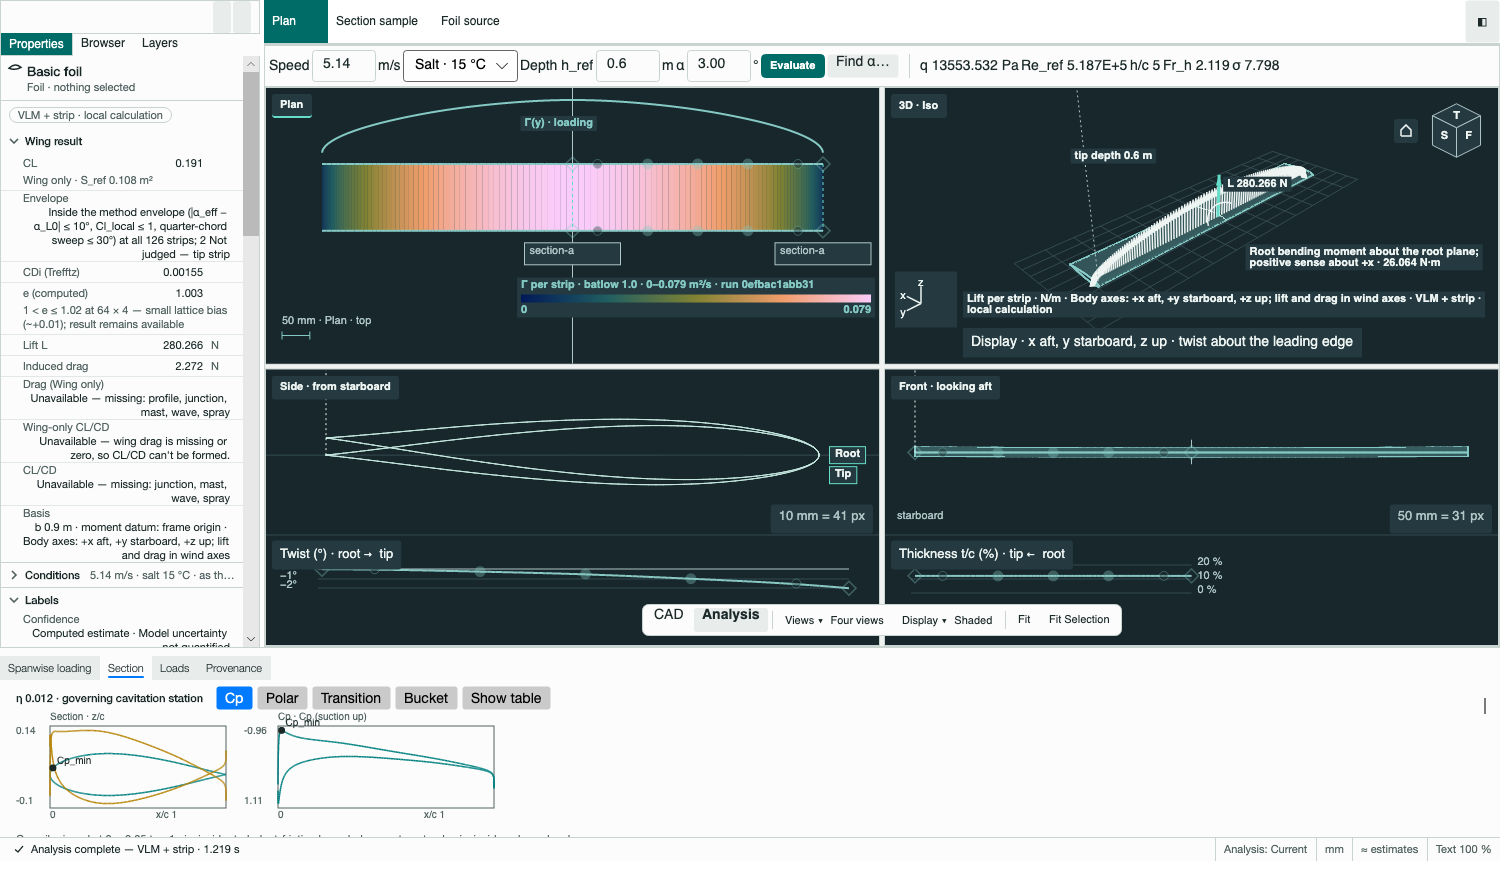
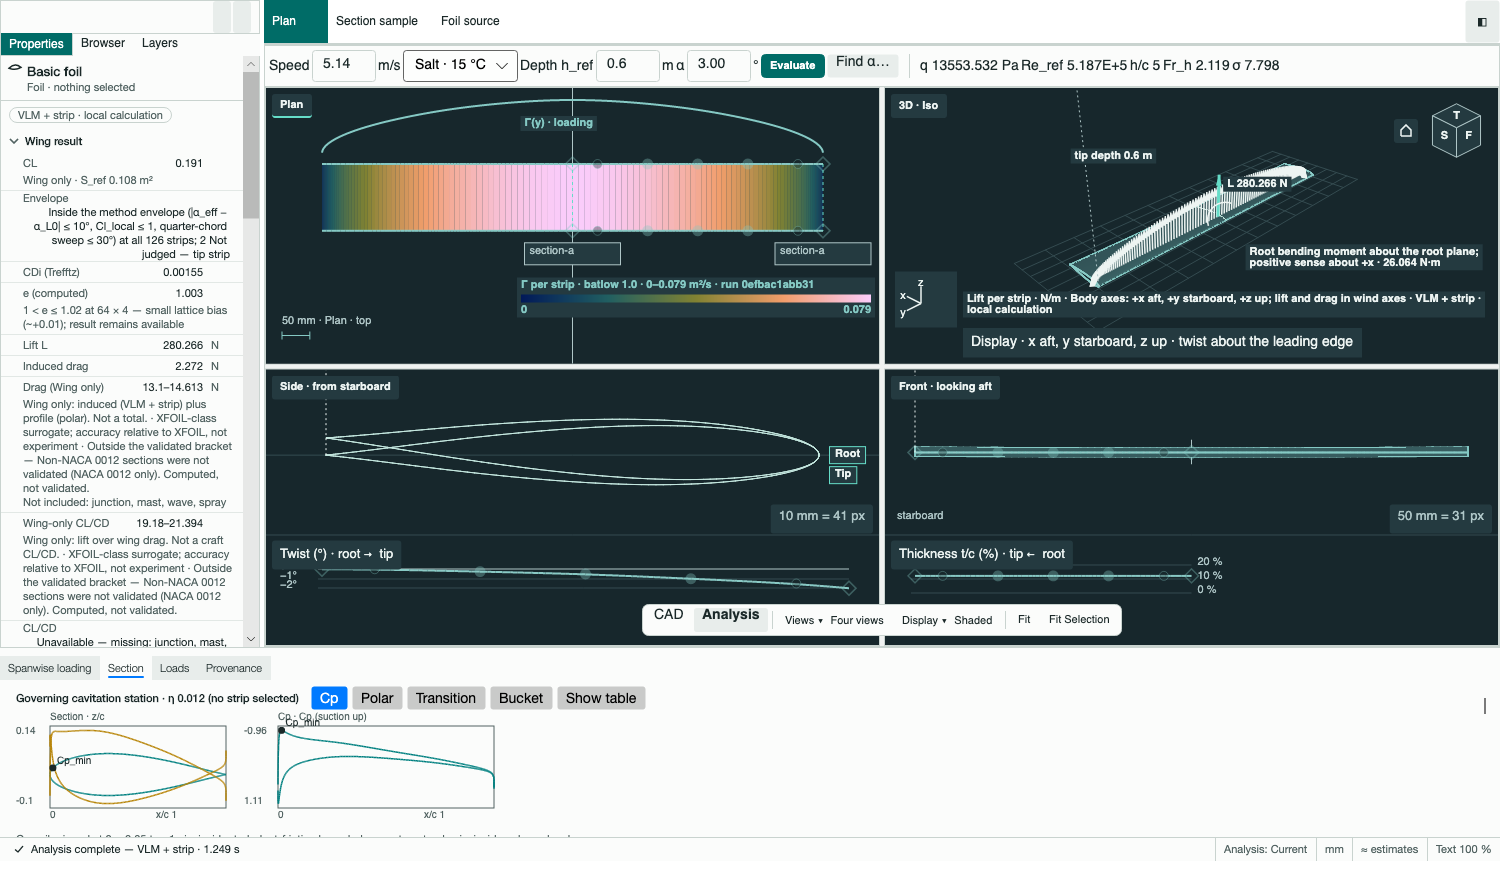
docs(dx): captures after Ruling 117, mockup renders, numerical-change note

Changed region(s): [[0.0, 0.4345, 0.1533, 0.7448], [0.0, 0.7759, 0.4293, 0.8379], [0.1533, 0.2483, 0.184, 0.2793]]

diff --git a/docs/proof/dx/red-first.md b/docs/proof/dx/red-first.md
@@ -91,3 +91,23 @@ Red: `Section_CpUnavailable_PanelSolveFailed_ShowsCopy358InApp` (Desktop readine
 | `Polar_NonNaca0012InsideTrainingRange_ComputedAndFlagged_Ruling117` | `AvailabilityCode` returns the family code again (refuse again) | `a strip cd is computed, not refused expected True; actual False` |
 
 Tool: scratchpad `dx2/mutate.py` (applies one exact replacement, builds, runs one check, restores the file). `git status` was clean after every run.
+
+### Item 6: captures (app render, after all changes, example foil, V 5.14 m/s, alpha 3, h 0.6 m)
+
+Folder `docs/proof/dx/captures/`. App renders are `01`..`11`; `mockup-*.png` are the approved mockup screens (`docs/mockups/dx-section-polar-states.html`, rendered by playwright). The example foil is not NACA 0012; since Ruling 117 it computes.
+
+| Required state | App capture | Mockup state |
+|---|---|---|
+| Drag (Wing only) row, value band 13.1 to 14.613 N, COPY-364 flag in its note; Wing-only CL/CD 19.18 to 21.394, same flag | `11-wing-result-drag-band-flagged.png` (Properties, Wing result) and `06-loads-drag-wing-only.png` (strip cd row carries the flag) | `mockup-drag.png` (D5; the mockup predates Ruling 109 and 117: its band has no family flag) |
+| not-measured cell beside a measured station (eta 0.049 reads 1.38 %, eta 0.061 reads "not measured at this station (200 panels only)") | `07-` and `08-section-tab-all-tables-*.png`, Stations table | the D7 state sheet row (`mockup-sheet.png`) |
+| Section tab naming the selected strip ("Selected strip · eta 1") | `08-section-tab-all-tables-selected.png`, `02-section-cp-selected-strip.png` | `mockup-cp.png` (D1) |
+| governing fallback ("Governing cavitation station · eta 0.012 (no strip selected)") | `07-section-tab-all-tables-governing.png`, `01-section-cp-governing-fallback.png` | `mockup-cp.png` (D1) |
+| polar, transition, bucket charts | `03`, `04`, `05` | `mockup-polar.png`, `mockup-trans.png`, `mockup-bucket.png` |
+| Find alpha found and no root | `09`, `10` | `mockup-find.png` (D6, drawn as a popover; built as a dialog, DXM-6) |
+| Polar bracket row flagged for the section family (COPY-364) in the Section tab | bottom of `07`, `08` ("Polar bracket") | D7 sheet (row 36) |
+
+Findings from the captures (not fixed, outside the brief): the Section tab Stations table lists every one of the 126 lattice stations, so the tab is about 3000 px tall and the Polar group sits at its bottom; the mockup shows four stations. The Stations table should list the section etas (the four stations of the run), not each strip.
+
+### Numerical change for the CFD reviewer (Ruling 117)
+
+Example foil (docs/examples/foildsl/foil-basic.foil, not NACA 0012), V 5.14 m/s, alpha 3 deg, h_ref 0.6 m, 64x4 lattice: before, every strip cd was Unavailable (ANA-POLAR-SECTION-UNVALIDATED) and the wing drag, CL/CD bands read Unavailable. After: strip cd 0.00799 (Ncrit 2, tip strip), Drag (Wing only) 13.1 to 14.613 N, Wing-only CL/CD 19.18 to 21.394, all flagged COPY-364. The values are the NeuralFoil outputs unchanged; only the refusal was removed. Residual risk: these are surrogate outputs for a section the surrogate was not validated on (the flag says so). Re, alpha and Ncrit bracket refusals (D14) are unchanged.
